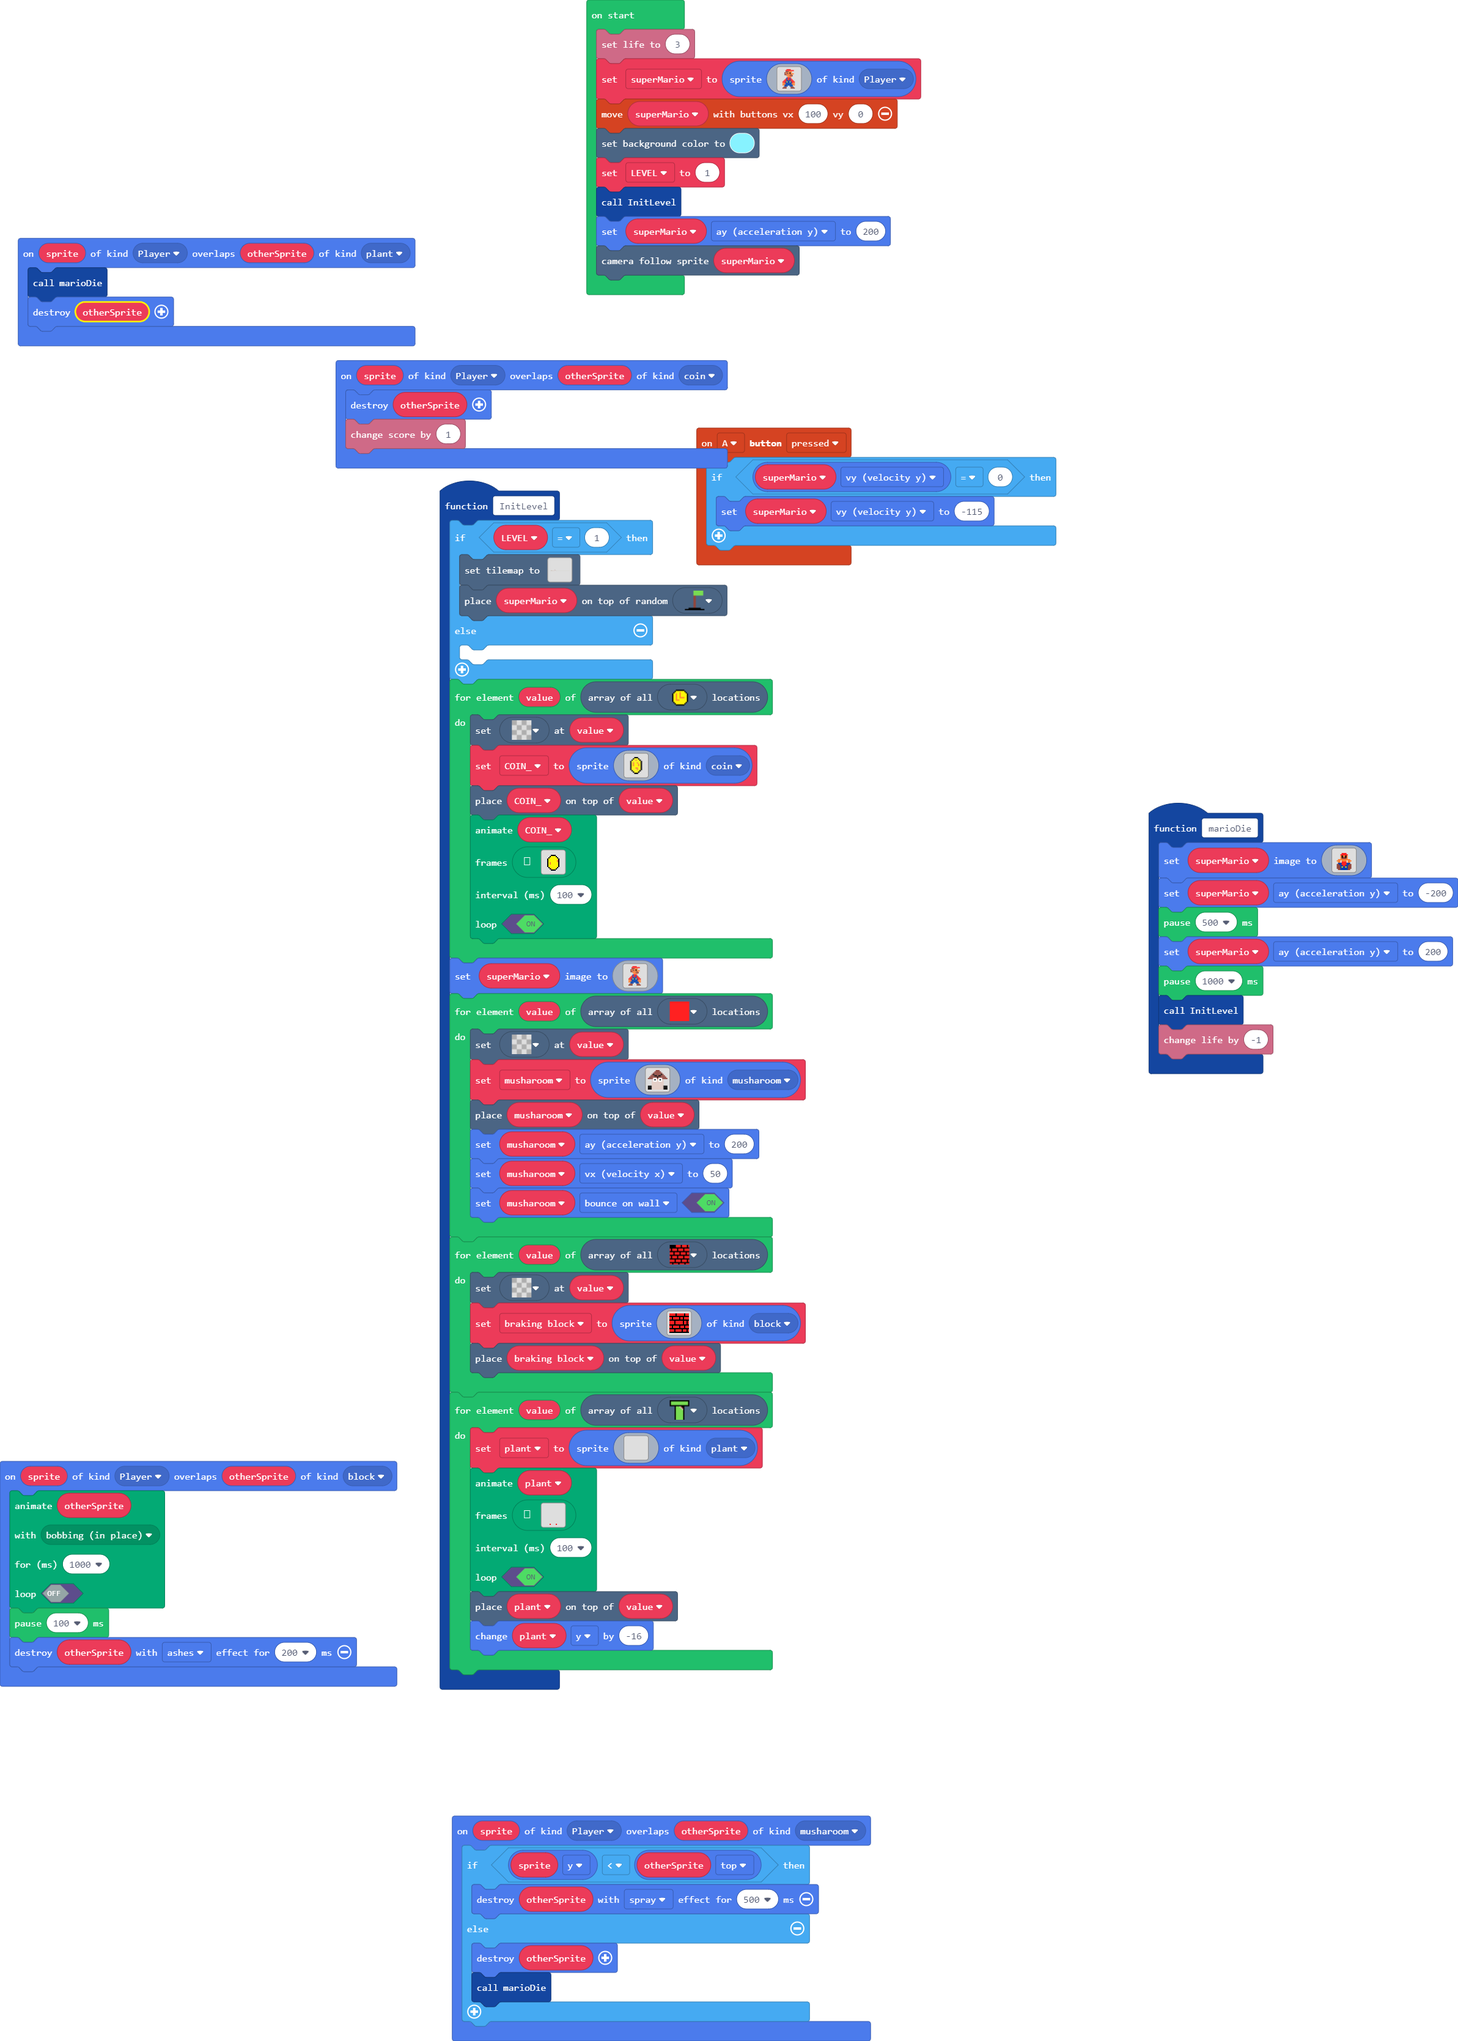
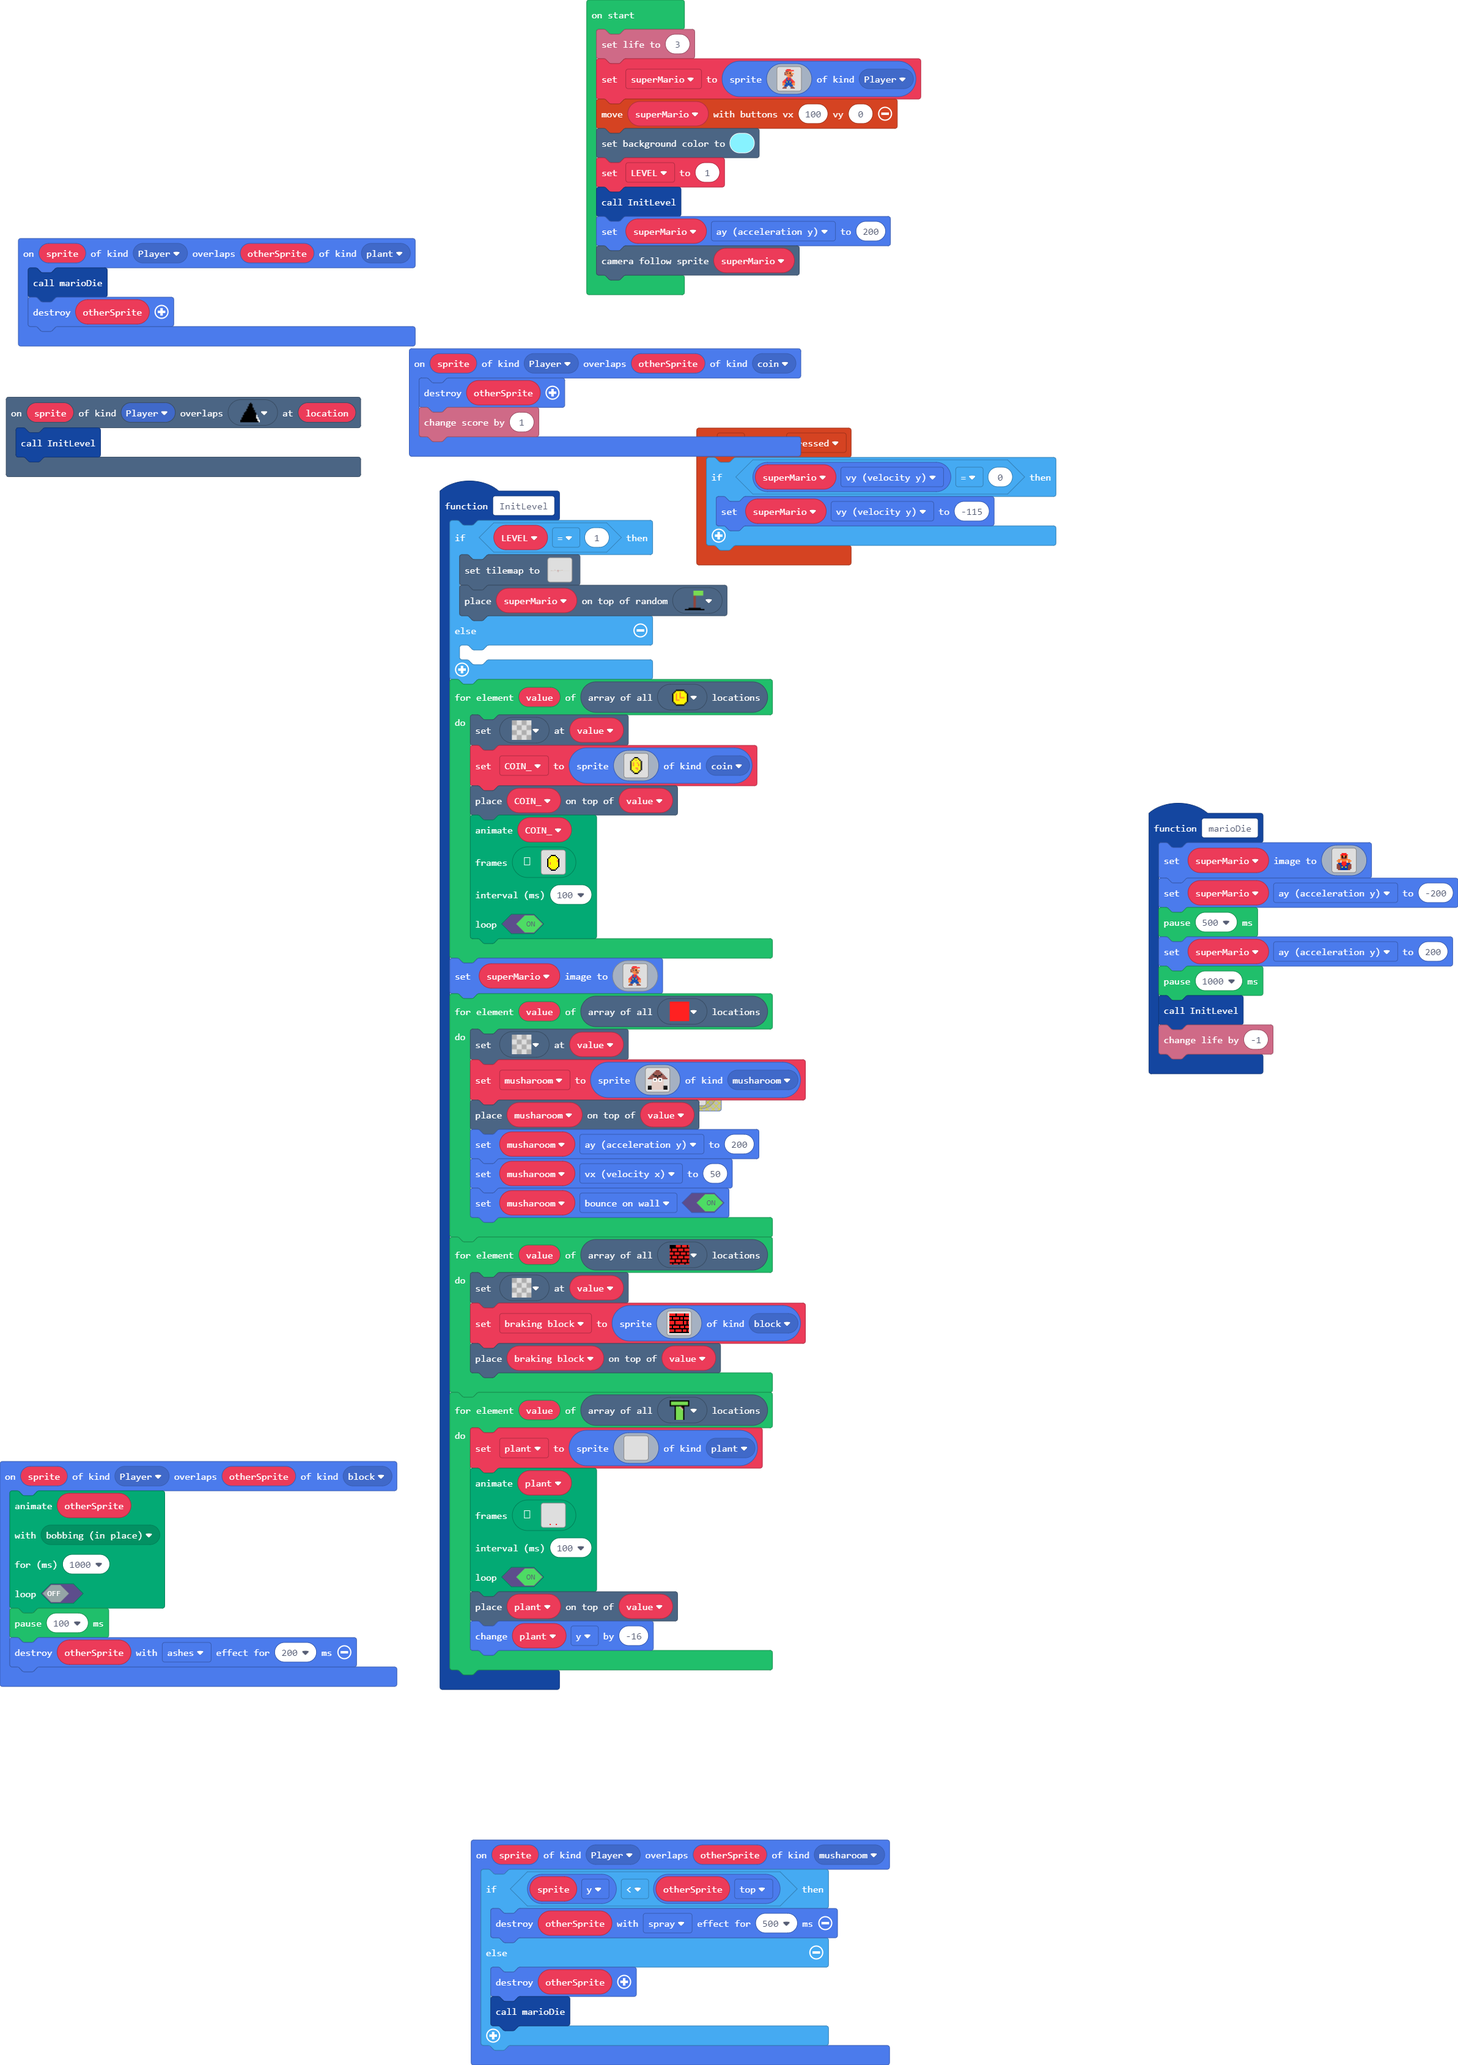
started surprise box

diff --git a/main.ts b/main.ts
@@ -138,6 +138,44 @@ f f f f f f f f f f f f f f f f
 . . . . f 7 7 7 7 7 7 f . . . . 
 . . . . f 7 7 7 7 7 7 f . . . . 
 `
+    //% blockIdentity=images._tile
+    export const tile7 = img`
+. . . . . . . . f . . . . . . . 
+. . . . . . . f f f . . . . . . 
+. . . . . . . f f f . . . . . . 
+. . . . . . f f f f . . . . . . 
+. . . . . . f f f f f . . . . . 
+. . . . . f f f f f f . . . . . 
+. . . . . f f f f f f f . . . . 
+. . . . f f f f f f f f . . . . 
+. . . f f f f f f f f f f . . . 
+. . . f f f f f f f f f f . . . 
+. . f f f f f f f f f f f 1 . . 
+. . f f f f f f f f f f f 1 . . 
+. f f f f f f f f f f f f 1 1 . 
+. f f f f f f f f f f f f f 1 . 
+f f f f f f f f f f f f f f 1 1 
+f f f f f f f f f f f f f f f 1 
+`
+    //% blockIdentity=images._tile
+    export const tile8 = img`
+4 4 4 4 4 4 4 4 4 4 4 4 4 4 4 4 
+4 5 5 5 5 2 2 2 2 2 5 5 5 5 5 4 
+4 5 5 5 2 5 5 5 5 5 2 5 5 5 5 4 
+4 5 5 2 5 5 5 5 5 5 5 2 5 5 5 4 
+4 5 2 5 5 5 5 5 5 5 5 5 2 5 5 4 
+4 5 2 5 5 5 5 5 5 5 5 5 2 5 5 4 
+4 5 5 5 5 5 5 5 5 5 5 5 2 5 5 4 
+4 5 5 5 5 5 5 5 5 5 5 5 2 5 5 4 
+4 5 5 5 5 5 5 5 5 5 5 2 5 5 5 4 
+4 5 5 5 5 5 5 5 5 5 2 5 5 5 5 4 
+4 5 5 5 5 5 5 5 5 2 5 5 5 5 5 4 
+4 5 5 5 5 5 5 5 2 5 5 5 5 5 5 4 
+4 5 5 5 5 5 5 2 5 5 5 5 5 5 5 4 
+4 5 5 5 5 5 5 5 5 5 5 5 5 5 5 4 
+4 5 5 5 5 5 2 2 2 5 5 5 5 5 5 4 
+4 4 4 4 4 4 2 2 2 4 4 4 4 4 4 4 
+`
 }
 function marioDie () {
     superMario.setImage(img`
@@ -192,10 +230,13 @@ sprites.onOverlap(SpriteKind.Player, SpriteKind.musharoom, function (sprite, oth
         marioDie()
     }
 })
+scene.onOverlapTile(SpriteKind.Player, myTiles.tile7, function (sprite, location) {
+    InitLevel()
+})
 function InitLevel () {
     if (LEVEL == 1) {
         tiles.setTilemap(tiles.createTilemap(
-            hex`640017000000000000000000000000000000000000000000000000000000000000000000000000000000000000000000000000000000000000000000000000000000000000000000000000000000000000000000000000000000000000000000000000000000000000000000000000000000000000000000000000000000000000000000000000000000000000000000000000000000000000000000000000000000000000000000000000000000000000000000000000000000000000000000000000000000000000000000000000000000000000000000000000000000000000000000000000000000000000000000000000000000000000000000000000000000000000000000000000000000000000000000000000000000000000000000000000000000000000000000000000000000000000000000000000000000000000000000000000000000000000000000000000000000000000000000000000000000000000000000000000000000000000000000000000000000000000000000000000000000000000000000000000000000000000000000000000000000000000000000000000000000000000000000000000000000000000000000000000000000000000000000000000000000000000000000000000000000000000000000000000000000000000000000000000000000000000000000000000000000000000000000000000000000000000000000000000000000000000000000000000000000000000000000000000000000000000000000000000000000000000000000000000000000000000000000000000000000000000000000000000000000000000000000000000000000000000000000000000000000000000000000000000000000000000000000000000000000000000000000000000000000000000000000000000000000000000000000000000000000000000000000000000000000000000000000000000000000000000000000000000000000000000000000000000000000000000000000000000000000000000000000000000000000000000000000000000000000000000000000000000000000000000000000000000000000000000000000000000000000000000000000000000000000000000000000000000000000000000000000000000000000000000000000000000000000000000000000000000000000000000000000000000000000000000000000000000000000000000000000000000000000000000000000000000000000000000000000000000000000000000000000000000000000000000000000000000000000000000000000000000000000000000000000000000000000000000000000000000000000000000000000000000000000000000000000000000000000000000000000000000000000000000000000000000000000000000000000000000000000000000000000000000000000000000000000000000000000000000000000000000000000000000000000000000000000000000000000000000000000000000000000000000000000000000000000020000000000000000000000000000000000000000000000000000000000000000000000000000000000000000000000000000000000000000000000000000000000000000000000000000000000000000000000000000000000000000000000000000000200000000000000000000000000000000000000000000000000000000000000000000000000000000000000000000000000000000000000000000000000000000000000000000000000000000000000000004000000000000000000000000000000000002000000000000000000000000000000000000000000000000000000000000000000000000000000000000000000000000000000000000000000000000000000000000000000000000000000000000000000000000000000000000000000000000000000060606060000000000000000000000000000000000000000000000000000000000000000000000000000000000000000000000000000000000000000000000000000000000000000000000000000000000000200040000000000000000000000000000000000000000000000000000000000000000000000000000000000000000000000000000000000000000000000000000000000000000000000000000000000000000000000000000000000000003000000000002020200040000020000050000020000000000000000000000000700000000000000000000000000000000000000000000000000000000000000000000000000000000000000000000000000000000000000000000000000000000000000010101010101010101010101010101010101010101010101010101010101010101010101010101010101010101010101010101010101010101010101010101010101010101010101010101010101010101010101010101010101010101010101010101010000000000000000000000000000000000000000000000000000000000000000000000000000000000000000000000000000000000000000000000000000000000000000000000000000000000000000000000000000000000000000000000000000000000000000000000000000000000000000000000000000000000000000000000000000000000000000000000000000000000000000000000000000000000000000000000000000000000000000000000000000000000000000000000000000000000000000000000000000000000000000000000000000000000000000000000000000000000000000000000000000000000000000000000000000000000000000000000000000000000000000000000000000000000000000000000000000000000000000000000000000000000000000000000000000000000000000000000000000000000000000000000000000000000000000000000000000000000000000000000000000000000000000000000000000000000000000000000000000000000000000000000000000000000000000000000000000000000000000000000000000000000000000000000000000000000000000000000000000000000000000000000000000000000000000000000000000000000000000000000000000000000000000000000000000000000000000`,
+            hex`640017000000000000000000000000000000000000000000000000000000000000000000000000000000000000000000000000000000000000000000000000000000000000000000000000000000000000000000000000000000000000000000000000000000000000000000000000000000000000000000000000000000000000000000000000000000000000000000000000000000000000000000000000000000000000000000000000000000000000000000000000000000000000000000000000000000000000000000000000000000000000000000000000000000000000000000000000000000000000000000000000000000000000000000000000000000000000000000000000000000000000000000000000000000000000000000000000000000000000000000000000000000000000000000000000000000000000000000000000000000000000000000000000000000000000000000000000000000000000000000000000000000000000000000000000000000000000000000000000000000000000000000000000000000000000000000000000000000000000000000000000000000000000000000000000000000000000000000000000000000000000000000000000000000000000000000000000000000000000000000000000000000000000000000000000000000000000000000000000000000000000000000000000000000000000000000000000000000000000000000000000000000000000000000000000000000000000000000000000000000000000000000000000000000000000000000000000000000000000000000000000000000000000000000000000000000000000000000000000000000000000000000000000000000000000000000000000000000000000000000000000000000000000000000000000000000000000000000000000000000000000000000000000000000000000000000000000000000000000000000000000000000000000000000000000000000000000000000000000000000000000000000000000000000000000000000000000000000000000000000000000000000000000000000000000000000000000000000000000000000000000000000000000000000000000000000000000000000000000000000000000000000000000000000000000000000000000000000000000000000000000000000000000000000000000000000000000000000000000000000000000000000000000000000000000000000000000000000000000000000000000000000000000000000000000000000000000000000000000000000000000000000000000000000000000000000000000000000000000000000000000000000000000000000000000000000000000000000000000000000000000000000000000000000000000000000000000000000000000000000000000000000000000000000000000000000000000000000000000000000000000000000000000000000000000000000000000000000000000000000000000000000000000000000000000000000020000000000000000000000000000000000000000000000000000000000000000000000000000000000000000000000000000000000000000000000000000000000000000000000000000000000000000000000000000000000000000000000000000000200000000000000000000000000000000000000000000000000000000000000000000000000000000000000000000000000000000000000000000000000000000000000000000000000000000000000000004000000000000000000000000000000000002000000000000000000000000000002000002000000000000000000000000000000000000000000000000000000000000000000000000000000000000000000000000000000000000000000000000000000000000000000000000000000000000000000060606060000000000000000000002020000020200000000000400000400000400000202020902020000000000000000000000000000000000000000000000000000000000000000000000000000000000000200040000000000000000000000000000000000000000000000000000000002020200000202020000000000000000000000000000000000000000000000000000000000000000000000000000000000000000000000000000000000000003000000000002020200040000020000050000020000000000000000000000000700000002020202000002020202000000070000070000070000000000000000000000000000000000000000000000000000000000000000000000000000000000000000010101010101010101010101010101010101010101010101010101010101010101010101010101010000010101010101010101010101010101010101010101010101010101010101010101010101010101010101010101010101010101010101010101010000000000000000000000000000000000000000000000000000000000000000000000000000000200000200000000000000000000000000000000000000000000000000000000000000000000000000000000000000000000000000000000000000000000000000000000000000000000000000000000000000000000000000000000000000000000000002000002000000000000000000000000000000000000000000000000000000000000000000000000000000000000000000000000000000000000000000000000000000000000000000000000000000000000000000000000000000000000000000000000020000020000000000000000000000000000000000000000000000000000000000000000000000000000000000000000000000000000000000000000000000000000000000000000000000000000000000000000000000000000000000000000000000000200000200000000000000000000000000000000000000000000000000000000000000000000000000000000000000000000000000000000000000000000000000000000000000000000000000000000000000000000000000000000000000000000000002080802000000000000000000000000000000000000000000000000000000000000000000000000000000000000000000000000000000000000000000`,
             img`
 . . . . . . . . . . . . . . . . . . . . . . . . . . . . . . . . . . . . . . . . . . . . . . . . . . . . . . . . . . . . . . . . . . . . . . . . . . . . . . . . . . . . . . . . . . . . . . . . . . . . 
 . . . . . . . . . . . . . . . . . . . . . . . . . . . . . . . . . . . . . . . . . . . . . . . . . . . . . . . . . . . . . . . . . . . . . . . . . . . . . . . . . . . . . . . . . . . . . . . . . . . . 
@@ -210,18 +251,18 @@ function InitLevel () {
 . . . . . . . . . . . . . . . . . . . . . . . . . . . . . . . . . . . . . . . . . . . . . . . . . . . . . . . . . . . . . . . . . . . . . . . . . . . . . . . . . . . . . . . . . . . . . . . . . . . . 
 . . . . . . . . . . . . . . . . . . . . . . . . 2 . . . . . . . . . . . . . . . . . . . . . . . . . . . . . . . . . . . . . . . . . . . . . . . . . . . . . . . . . . . . . . . . . . . . . . . . . . . 
 . . . . . . . . . . . . . . . . . . . . . . . . 2 . . . . . . . . . . . . . . . . . . . . . . . . . . . . . . . . . . . . . . . . . . . . . . . . . . . . . . . . . . . . . . . . . . . . . . . . . . . 
-. . . . . . . . . . . . . . . . . . . . . . . . 2 . . . . . . . . . . . . . . . . . . . . . . . . . . . . . . . . . . . . . . . . . . . . . . . . . . . . . . . . . . . . . . . . . . . . . . . . . . . 
-. . . . . . . . . . . . . . . . . . . . . . . . . . . . . . . . . . . . . . . . . . . . . . . . . . . . . . . . . . . . . . . . . . . . . . . . . . . . . . . . . . . . . . . . . . . . . . . . . . . . 
-. . . . . . 2 . . . . . . . . . . . . . . . . . . . . . . . . . . . . . . . . . . . . . . . . . . . . . . . . . . . . . . . . . . . . . . . . . . . . . . . . . . . . . . . . . . . . . . . . . . . . . 
-. . . . . . 2 2 2 . . . . 2 . . . . . 2 . . . . . . . . . . . . 2 . . . . . . . . . . . . . . . . . . . . . . . . . . . . . . . . . . . . . . . . . . . . . . . . . . . . . . . . . . . . . . . . . . . 
-2 2 2 2 2 2 2 2 2 2 2 2 2 2 2 2 2 2 2 2 2 2 2 2 2 2 2 2 2 2 2 2 2 2 2 2 2 2 2 2 2 2 2 2 2 2 2 2 2 2 2 2 2 2 2 2 2 2 2 2 2 2 2 2 2 2 2 2 2 2 2 2 2 2 2 2 2 2 2 2 2 2 2 2 2 2 2 2 2 2 2 2 2 2 2 2 2 2 2 2 
-. . . . . . . . . . . . . . . . . . . . . . . . . . . . . . . . . . . . . . . . . . . . . . . . . . . . . . . . . . . . . . . . . . . . . . . . . . . . . . . . . . . . . . . . . . . . . . . . . . . . 
-. . . . . . . . . . . . . . . . . . . . . . . . . . . . . . . . . . . . . . . . . . . . . . . . . . . . . . . . . . . . . . . . . . . . . . . . . . . . . . . . . . . . . . . . . . . . . . . . . . . . 
-. . . . . . . . . . . . . . . . . . . . . . . . . . . . . . . . . . . . . . . . . . . . . . . . . . . . . . . . . . . . . . . . . . . . . . . . . . . . . . . . . . . . . . . . . . . . . . . . . . . . 
-. . . . . . . . . . . . . . . . . . . . . . . . . . . . . . . . . . . . . . . . . . . . . . . . . . . . . . . . . . . . . . . . . . . . . . . . . . . . . . . . . . . . . . . . . . . . . . . . . . . . 
-. . . . . . . . . . . . . . . . . . . . . . . . . . . . . . . . . . . . . . . . . . . . . . . . . . . . . . . . . . . . . . . . . . . . . . . . . . . . . . . . . . . . . . . . . . . . . . . . . . . . 
+. . . . . . . . . . . . . . . . . . . . . . . . 2 . . . . . . . . . . . . . . 2 . . 2 . . . . . . . . . . . . . . . . . . . . . . . . . . . . . . . . . . . . . . . . . . . . . . . . . . . . . . . . . 
+. . . . . . . . . . . . . . . . . . . . . . . . . . . . . . . . . . . . . . 2 2 . . 2 2 . . . . . . . . . . . . . . 2 2 2 2 2 . . . . . . . . . . . . . . . . . . . . . . . . . . . . . . . . . . . . . 
+. . . . . . 2 . . . . . . . . . . . . . . . . . . . . . . . . . . . . . . 2 2 2 . . 2 2 2 . . . . . . . . . . . . . . . . . . . . . . . . . . . . . . . . . . . . . . . . . . . . . . . . . . . . . . . 
+. . . . . . 2 2 2 . . . . 2 . . . . . 2 . . . . . . . . . . . . 2 . . . 2 2 2 2 . . 2 2 2 2 . . . 2 . . 2 . . 2 . . . . . . . . . . . . . . . . . . . . . . . . . . . . . . . . . . . . . . . . . . . . 
+2 2 2 2 2 2 2 2 2 2 2 2 2 2 2 2 2 2 2 2 2 2 2 2 2 2 2 2 2 2 2 2 2 2 2 2 2 2 2 2 . . 2 2 2 2 2 2 2 2 2 2 2 2 2 2 2 2 2 2 2 2 2 2 2 2 2 2 2 2 2 2 2 2 2 2 2 2 2 2 2 2 2 2 2 2 2 2 2 2 2 2 2 2 2 2 2 2 2 2 
+. . . . . . . . . . . . . . . . . . . . . . . . . . . . . . . . . . . . . . . 2 . . 2 . . . . . . . . . . . . . . . . . . . . . . . . . . . . . . . . . . . . . . . . . . . . . . . . . . . . . . . . . 
+. . . . . . . . . . . . . . . . . . . . . . . . . . . . . . . . . . . . . . . 2 . . 2 . . . . . . . . . . . . . . . . . . . . . . . . . . . . . . . . . . . . . . . . . . . . . . . . . . . . . . . . . 
+. . . . . . . . . . . . . . . . . . . . . . . . . . . . . . . . . . . . . . . 2 . . 2 . . . . . . . . . . . . . . . . . . . . . . . . . . . . . . . . . . . . . . . . . . . . . . . . . . . . . . . . . 
+. . . . . . . . . . . . . . . . . . . . . . . . . . . . . . . . . . . . . . . 2 . . 2 . . . . . . . . . . . . . . . . . . . . . . . . . . . . . . . . . . . . . . . . . . . . . . . . . . . . . . . . . 
+. . . . . . . . . . . . . . . . . . . . . . . . . . . . . . . . . . . . . . . 2 . . 2 . . . . . . . . . . . . . . . . . . . . . . . . . . . . . . . . . . . . . . . . . . . . . . . . . . . . . . . . . 
 `,
-            [myTiles.tile0,sprites.castle.tilePath2,myTiles.tile1,myTiles.tile2,myTiles.tile3,myTiles.tile4,myTiles.tile5,myTiles.tile6],
+            [myTiles.tile0,sprites.castle.tilePath2,myTiles.tile1,myTiles.tile2,myTiles.tile3,myTiles.tile4,myTiles.tile5,myTiles.tile6,myTiles.tile7,myTiles.tile8],
             TileScale.Sixteen
         ))
         tiles.placeOnRandomTile(superMario, myTiles.tile2)
